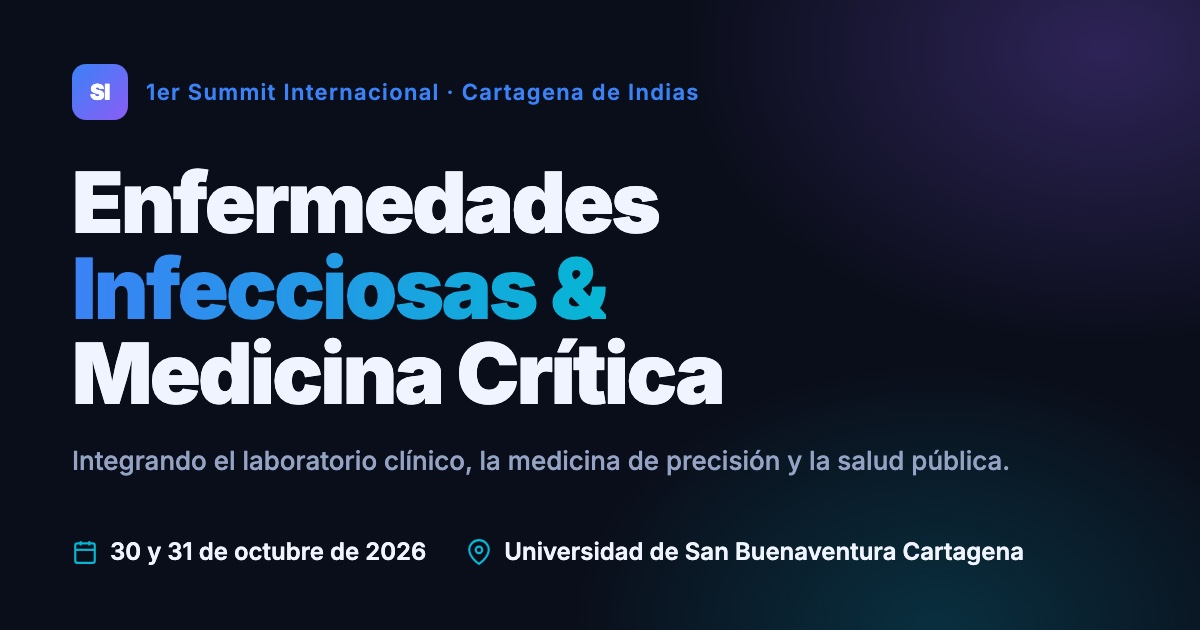
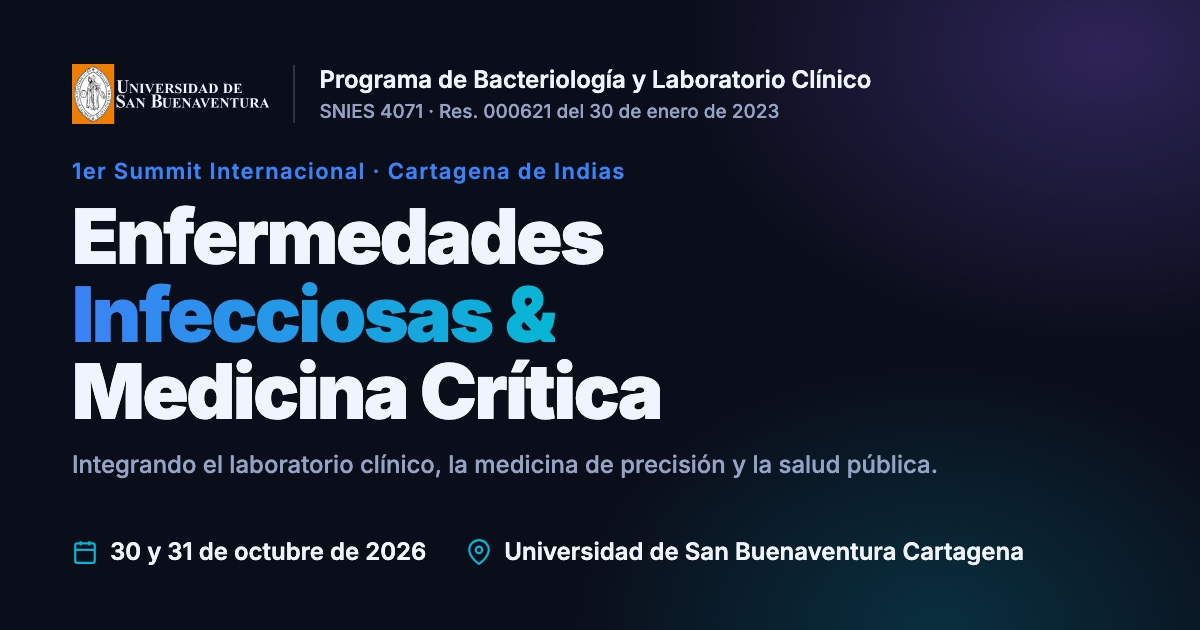
feat(seo): entidad organizadora en los metadatos para compartir
- description, og:description y twitter:description incluyen el Programa
  de Bacteriología y Laboratorio Clínico de la USB (SNIES 4071 · Res.
  000621 del 30 de enero de 2023).
- Imagen para compartir regenerada con el mismo bloque del header: logo
  USB, programa y registro en lugar de la insignia "SI".
- og:image y twitter:image con ?v=2 para que los servicios descarguen la
  imagen nueva en lugar de la versión en caché.

Changed region(s): [[0.0617, 0.2413, 0.6167, 0.6635], [0.0617, 0.0905, 0.74, 0.2111], [0.0617, 0.7238, 0.8325, 0.754]]

diff --git a/index.html b/index.html
@@ -5,35 +5,36 @@
   <meta charset="UTF-8" />
   <meta name="viewport" content="width=device-width, initial-scale=1.0" />
   <meta name="description"
-    content="1er Summit Internacional en Enfermedades Infecciosas &amp; Medicina Crítica. 30 y 31 de octubre de 2026, Auditorio Torreón, Universidad de San Buenaventura Cartagena. Integrando el laboratorio clínico, la medicina de precisión y la salud pública." />
+    content="1er Summit Internacional en Enfermedades Infecciosas &amp; Medicina Crítica. 30 y 31 de octubre de 2026, Auditorio Torreón, Universidad de San Buenaventura Cartagena. Organiza el Programa de Bacteriología y Laboratorio Clínico (SNIES 4071 · Res. 000621 del 30 de enero de 2023). Integrando el laboratorio clínico, la medicina de precisión y la salud pública." />
   <title>1er Summit Internacional en Enfermedades Infecciosas &amp; Medicina Crítica · Cartagena</title>
   <link rel="canonical" href="https://dave-mp.github.io/landing-congress/" />
   <link rel="icon" href="assets/favicon.svg" type="image/svg+xml" />
   <meta name="theme-color" content="#0a0e1a" />
 
   <!-- Vista previa al compartir el enlace (WhatsApp, Facebook, LinkedIn, Slack, X…).
-       Las URLs deben ser absolutas para que los rastreadores las resuelvan. -->
+       Las URLs deben ser absolutas para que los rastreadores las resuelvan.
+       Al cambiar og-image.jpg, sube el ?v= para que no reutilicen la versión en caché. -->
   <meta property="og:type" content="website" />
   <meta property="og:locale" content="es_CO" />
   <meta property="og:site_name" content="1er Summit Internacional en Enfermedades Infecciosas &amp; Medicina Crítica" />
   <meta property="og:url" content="https://dave-mp.github.io/landing-congress/" />
   <meta property="og:title" content="1er Summit Internacional en Enfermedades Infecciosas &amp; Medicina Crítica · Cartagena" />
   <meta property="og:description"
-    content="30 y 31 de octubre de 2026 · Auditorio Torreón, Universidad de San Buenaventura Cartagena. Integrando el laboratorio clínico, la medicina de precisión y la salud pública." />
-  <meta property="og:image" content="https://dave-mp.github.io/landing-congress/assets/social/og-image.jpg" />
+    content="30 y 31 de octubre de 2026 · Auditorio Torreón, Universidad de San Buenaventura Cartagena. Organiza el Programa de Bacteriología y Laboratorio Clínico (SNIES 4071 · Res. 000621 del 30 de enero de 2023)." />
+  <meta property="og:image" content="https://dave-mp.github.io/landing-congress/assets/social/og-image.jpg?v=2" />
   <meta property="og:image:type" content="image/jpeg" />
   <meta property="og:image:width" content="1200" />
   <meta property="og:image:height" content="630" />
   <meta property="og:image:alt"
-    content="1er Summit Internacional en Enfermedades Infecciosas &amp; Medicina Crítica, 30 y 31 de octubre de 2026, Universidad de San Buenaventura Cartagena." />
+    content="1er Summit Internacional en Enfermedades Infecciosas &amp; Medicina Crítica, 30 y 31 de octubre de 2026. Logo de la Universidad de San Buenaventura y Programa de Bacteriología y Laboratorio Clínico, SNIES 4071." />
 
   <meta name="twitter:card" content="summary_large_image" />
   <meta name="twitter:title" content="1er Summit Internacional en Enfermedades Infecciosas &amp; Medicina Crítica · Cartagena" />
   <meta name="twitter:description"
-    content="30 y 31 de octubre de 2026 · Auditorio Torreón, Universidad de San Buenaventura Cartagena." />
-  <meta name="twitter:image" content="https://dave-mp.github.io/landing-congress/assets/social/og-image.jpg" />
+    content="30 y 31 de octubre de 2026 · Auditorio Torreón, Universidad de San Buenaventura Cartagena. Organiza el Programa de Bacteriología y Laboratorio Clínico (SNIES 4071)." />
+  <meta name="twitter:image" content="https://dave-mp.github.io/landing-congress/assets/social/og-image.jpg?v=2" />
   <meta name="twitter:image:alt"
-    content="1er Summit Internacional en Enfermedades Infecciosas &amp; Medicina Crítica, 30 y 31 de octubre de 2026, Universidad de San Buenaventura Cartagena." />
+    content="1er Summit Internacional en Enfermedades Infecciosas &amp; Medicina Crítica, 30 y 31 de octubre de 2026. Logo de la Universidad de San Buenaventura y Programa de Bacteriología y Laboratorio Clínico, SNIES 4071." />
 
   <link rel="stylesheet" href="css/reset.css" />
   <link rel="stylesheet" href="css/tokens.css" />
